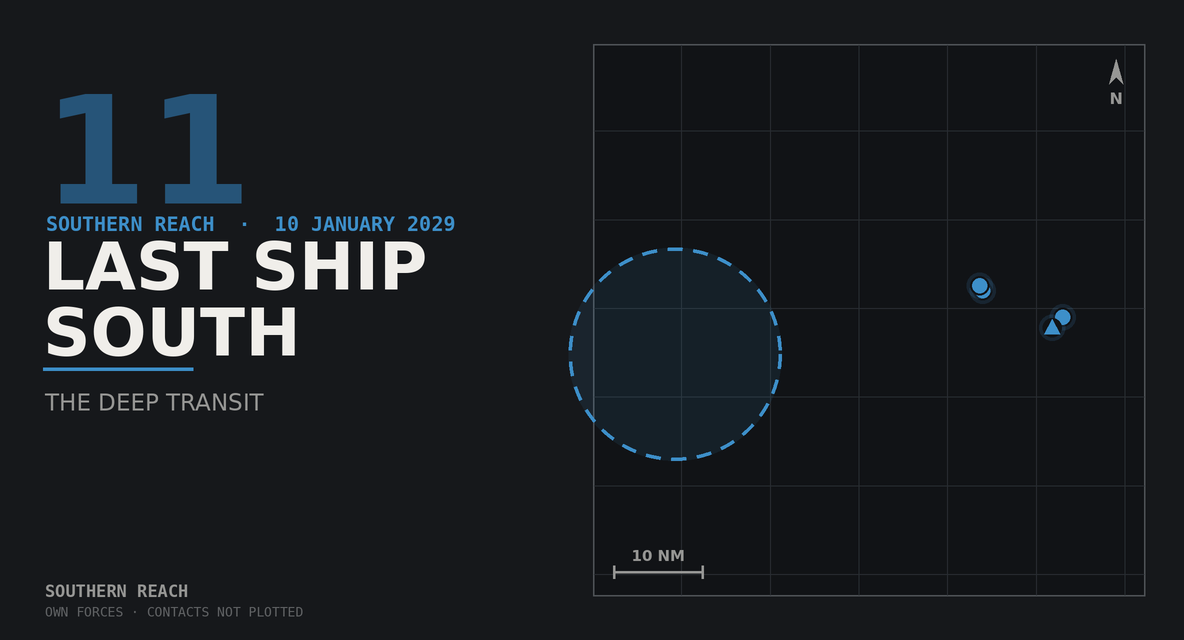
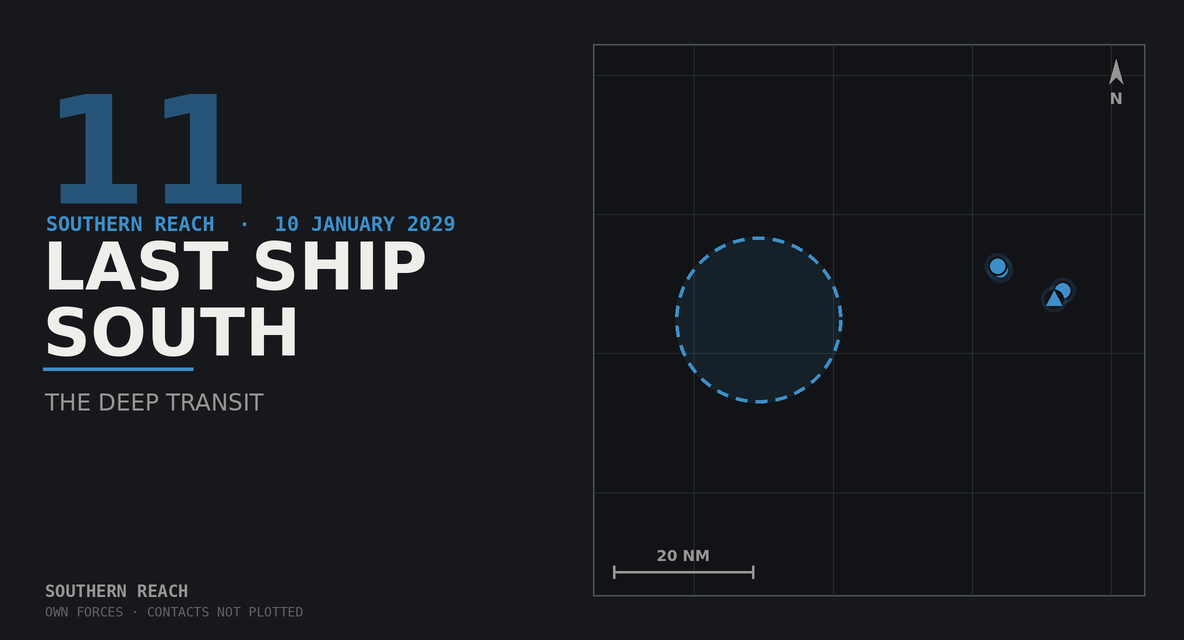
Campaigns: a mission card holds its whole ring and a clear title
Three faults in the shared art, found by looking at every card and page of
the Red Line campaign and fixed in the renderer rather than on its art.

A mission card's chart was framed on the own-force marks and the centre of
the objective ring, never its radius, so a wide ring ran off the chart and
over the page around it. Nine shipped cards did it: Southern Watch 04, O4
and C2; Southern Reach SR10, SR11, TS01, TS04, TS06 and TS11.
plot_extent() now frames the square on the ring as well when the ring
would leave it; a card whose ring already fits is framed exactly as
before.

The card title was set at 132 px whatever its letters, so an
eleven-character line of wide capitals reached the chart: BROKEN WAKE and
HOME WATERS touched its frame, and Red Line's CONVERGENCE crossed it.
title_size() steps the size down until the widest line is 40 px clear. A
title that fits keeps 132 px.

The campaign backdrop padded its frame by 2.2 degrees, which is a margin
on a theatre of a dozen degrees and none on one of fifty. backdrop_frame()
keeps the campaign marks 100 px below the top and 150 px above the bottom,
where the title is, and only when they would sit nearer; the optional
beats may still sit nearer. Meridians east of 180 are labelled west, and a
parallel's label that would print over the meridians' row is left off.

Regenerated: the nine cards above, in the campaign pack and the
consolidated dist. Every other Southern Watch and Southern Reach file,
[…]

diff --git a/integration/campaign/make_art.py b/integration/campaign/make_art.py
@@ -51,6 +51,46 @@ def sections(path):
             k, _, v = s.partition("="); out[cur][k.strip()] = v.strip()
     return out
 
+def plot_extent(afloat, goal):
+    """The card's chart as a square in the mission's NM frame: (x0, z1, span),
+    its west edge, its north edge and its side.
+
+    Framed on the own-force marks and the objective's centre, with 42% to
+    spare. That was the whole rule, and it let a wide objective ring run off
+    the chart, past the frame's edge and over the page around it, because the
+    centre was framed and the radius never was. Nine shipped cards did it.
+    When the ring would leave the square, the square is framed on the ring as
+    well; a card whose ring already fits is framed exactly as before.
+    """
+    pts = [(x, z) for x, z, _ in afloat] or [(0, 0)]
+    if goal: pts.append((goal[0], goal[1]))
+
+    def frame(pts):
+        xs, zs = [p[0] for p in pts], [p[1] for p in pts]
+        span = max(max(xs)-min(xs), max(zs)-min(zs), 20.0) * 1.42
+        return (min(xs)+max(xs))/2, (min(zs)+max(zs))/2, span
+
+    cx, cz, span = frame(pts)
+    if goal:
+        gx, gz, r = goal
+        if max(abs(gx - cx), abs(gz - cz)) + r > span / 2:
+            cx, cz, span = frame(pts + [(gx - r, gz - r), (gx + r, gz + r)])
+    return cx - span/2, cz + span/2, span
+
+def title_size(lines, room, measure, size=132, floor=96):
+    """The card title's size in px: 132, or as far below it (6 px a step,
+    never under `floor`) as the widest line needs to fit `room`.
+
+    The title is wrapped at eleven characters and set at 132 px whatever the
+    letters were, so an eleven-letter line of wide capitals ran into the
+    chart's frame - BROKEN WAKE and HOME WATERS touched it, CONVERGENCE
+    crossed it. `measure(line, size)` is the line's width at that size. A
+    title that fits keeps 132, so its card is drawn as before.
+    """
+    while size > floor and max(measure(l, size) for l in lines) > room:
+        size -= 6
+    return size
+
 def card(ini, out_png, num, title, date, place, standfirst, label="SOUTHERN WATCH"):
     S = sections(ini)
     afloat, goal = [], None
@@ -79,12 +119,7 @@ def card(ini, out_png, num, title, date, place, standfirst, label="SOUTHERN WATC
     ox, oy = CW - PW - 80, (CH - PH) // 2
     d.rectangle([ox-2, oy-2, ox+PW+2, oy+PH+2], fill=PANEL, outline=FRAME, width=3)
 
-    pts = [(x, z) for x, z, _ in afloat] or [(0, 0)]
-    if goal: pts.append((goal[0], goal[1]))
-    xs, zs = [p[0] for p in pts], [p[1] for p in pts]
-    span = max(max(xs)-min(xs), max(zs)-min(zs), 20.0) * 1.42
-    cx, cz = (min(xs)+max(xs))/2, (min(zs)+max(zs))/2
-    x0, z1 = cx - span/2, cz + span/2
+    x0, z1, span = plot_extent(afloat, goal)
     def to_px(x, z): return (ox + (x-x0)/span*PW, oy + (z1-z)/span*PH)
 
     step = next(s for s in (2, 5, 10, 20, 25, 50, 100) if span/s <= 7)
@@ -126,9 +161,12 @@ def card(ini, out_png, num, title, date, place, standfirst, label="SOUTHERN WATC
     d.text((L, 128), num, font=font(300, True), fill=BLUE_DIM)
     d.text((L+6, 424), date.upper(), font=font(40, True, mono=True), fill=BLUE)
     lines = textwrap.wrap(title.upper(), 11)
+    # The title stays 40 px clear of the chart's frame.
+    size = title_size(lines, ox - 40 - L,
+                      lambda line, px: d.textlength(line, font=font(px, True)))
     y = 456
     for line in lines:
-        d.text((L, y), line, font=font(132, True), fill=INK); y += 132
+        d.text((L, y), line, font=font(size, True), fill=INK); y += size
     y += 18
     d.line([(L, y), (L+300, y)], fill=BLUE, width=7); y += 40
     d.text((L+4, y), place.upper(), font=font(46), fill=INK_MUTE)
@@ -411,11 +449,9 @@ def _ll(path):
 def _hemi(v, pair):
     return f"{abs(v):.0f}{pair[0] if v >= 0 else pair[1]}"
 
-def backdrop(out_png, marks, title, subtitle):
-    """marks: [(number, lat, lon, is_core)] in campaign order."""
-    img = Image.new("RGB", (W, H), DEEP)
-    d = ImageDraw.Draw(img, "RGBA")
-
+def backdrop_frame(marks):
+    """The backdrop's chart as (south, north, west, east) in degrees, for
+    marks [(number, lat, lon, is_core)]."""
     lats = [m[1] for m in marks] or [-10.0]
     lons = [m[2] for m in marks] or [131.0]
     # Pad to the frame's aspect so the theatre is centred rather than stretched.
@@ -430,6 +466,34 @@ def backdrop(out_png, marks, title, subtitle):
         need = (lo1 - lo0) * H / W
         mid = (la0 + la1) / 2
         la0, la1 = mid - need / 2, mid + need / 2
+    # The pad is in degrees, which is a margin on a theatre of a dozen
+    # degrees and none on one of fifty: Red Line runs from the equator to 47
+    # South, and its first and last marks sat on the frame's edge with the
+    # track running through the title. Keep the northernmost campaign mark
+    # 100 px below the top and the southernmost 150 px clear of the bottom,
+    # where the title is. The optional beats are small and may sit nearer;
+    # a chart whose campaign marks already clear both keeps its frame.
+    core_lats = [m[1] for m in marks if m[3]] or lats
+    ppd = H / (la1 - la0)
+    if (la1 - max(core_lats)) * ppd < 100 or (min(core_lats) - la0) * ppd < 150:
+        ppd = (H - 250) / max(max(lats) - min(lats), 1e-6)
+        s_, n_ = min(lats) - 150 / ppd, max(lats) + 100 / ppd
+        if (n_ - s_) * W / H >= lo1 - lo0:      # the height governs: widen
+            la0, la1 = s_, n_
+            need, mid = (la1 - la0) * W / H, (lo0 + lo1) / 2
+            lo0, lo1 = mid - need / 2, mid + need / 2
+        else:                                   # the width does: grow the margins
+            extra = (lo1 - lo0) * H / W - (n_ - s_)
+            la0, la1 = s_ - extra * 0.6, n_ + extra * 0.4
+    return la0, la1, lo0, lo1
+
+
+def backdrop(out_png, marks, title, subtitle):
+    """marks: [(number, lat, lon, is_core)] in campaign order."""
+    img = Image.new("RGB", (W, H), DEEP)
+    d = ImageDraw.Draw(img, "RGBA")
+    la0, la1, lo0, lo1 = backdrop_frame(marks)
+
     def to_px(lat, lon):
         return ((lon - lo0) / (lo1 - lo0) * W, (la1 - lat) / (la1 - la0) * H)
 
@@ -439,14 +503,19 @@ def backdrop(out_png, marks, title, subtitle):
             int(a + (b - a) * t) for a, b in zip(SEA, DEEP)))
 
     lo = math.ceil(lo0)
+    lon_labels = []                     # x of each meridian label on the bottom row
     while lo <= lo1:                    # meridians, every degree
         px, _ = to_px(0, lo)
         heavy = lo % 5 == 0
         d.line([(px, 0), (px, H)], fill=LINE_H if heavy else LINE,
                width=2 if heavy else 1)
         if heavy:
+            lon_labels.append(px + 10)
+            # East of the date line the chart is still counting east: 185E
+            # is 175W, and a chart that spans both theatres reaches it.
+            east = lo if lo <= 180 else lo - 360
             d.text((px + 10, H - 38),
-                   f"{abs(lo):.0f}°{'E' if lo >= 0 else 'W'}",
+                   f"{abs(east):.0f}°{'E' if east >= 0 else 'W'}",
                    font=mono(22), fill=(58, 72, 86))
         lo += 1
     la = math.ceil(la0)
@@ -455,7 +524,10 @@ def backdrop(out_png, marks, title, subtitle):
         heavy = la % 5 == 0
         d.line([(0, py), (W, py)], fill=LINE_H if heavy else LINE,
                width=2 if heavy else 1)
-        if heavy:
+        # A parallel's label that would print over a meridian's on the
+        # bottom row is left off; the meridian's is the one the row is for.
+        crowded = py - 30 > H - 60 and any(x < 14 + 80 for x in lon_labels)
+        if heavy and not crowded:
             # Hemisphere from the sign, not from the theatre: padding the
             # frame out to 16:9 pushes the top edge over the equator, and a
             # parallel labelled 0S would be the one wrong thing on the chart.

diff --git a/integration/campaign/test_build_pack.py b/integration/campaign/test_build_pack.py
@@ -538,6 +538,110 @@ class StoryArt(unittest.TestCase):
         self.assertEqual({bp.event_tile(e) for e in (SIGNAL, LOG, INTSUM)}, {"message"})
 
 
+@unittest.skipIf(make_art is None, "Pillow is not installed")
+class CardFrame(unittest.TestCase):
+    """The mission card's chart holds the whole objective ring, not only its
+    centre, and the card's title stays off the chart."""
+
+    # The ceasefire-morning card: the group ahead, the box 21 NM up its
+    # course, 12 NM across - wider than the margin the marks leave.
+    MARKS = [(0.0, 9.0, "ship"), (-12.0, 6.0, "ship"), (-18.0, 12.0, "ship"),
+             (-1.2, 7.8, "air")]
+
+    @staticmethod
+    def square(afloat, goal):
+        x0, z1, span = make_art.plot_extent(afloat, goal)
+        return x0, x0 + span, z1 - span, z1
+
+    def assertInside(self, goal, square):
+        w, e, s, n = square
+        gx, gz, r = goal
+        self.assertTrue(w <= gx - r and gx + r <= e and s <= gz - r and gz + r <= n,
+                        f"ring {goal} leaves the chart {square}")
+
+    def test_a_wide_ring_is_framed_whole(self):
+        goal = (-30.12, 16.74, 12.0)
+        self.assertInside(goal, self.square(self.MARKS, goal))
+
+    def test_a_ring_that_fits_is_framed_as_before(self):
+        # The old rule: the marks and the ring's centre, with 42% to spare.
+        goal = (-6.0, 8.0, 3.0)
+        xs = [x for x, _z, _k in self.MARKS] + [goal[0]]
+        zs = [z for _x, z, _k in self.MARKS] + [goal[1]]
+        span = max(max(xs) - min(xs), max(zs) - min(zs), 20.0) * 1.42
+        x0 = (min(xs) + max(xs)) / 2 - span / 2
+        z1 = (min(zs) + max(zs)) / 2 + span / 2
+        self.assertEqual(make_art.plot_extent(self.MARKS, goal), (x0, z1, span))
+        self.assertInside(goal, self.square(self.MARKS, goal))
+
+    def test_no_objective_frames_the_marks(self):
+        x0, z1, span = make_art.plot_extent(self.MARKS, None)
+        self.assertAlmostEqual(span, 20.0 * 1.42)
+
+    @staticmethod
+    def measure(line, px):
+        from PIL import Image, ImageDraw
+        d = ImageDraw.Draw(Image.new("RGB", (8, 8)))
+        return d.textlength(line, font=make_art.font(px, True))
+
+    # The card's own geometry: the chart's frame starts at 1188 px on the
+    # 2x canvas and the title at 86, 40 px clear of it.
+    ROOM = make_art.SHEET_W * 2 - 1100 - 80 - 40 - 86 if make_art else 0
+
+    def test_a_wide_title_is_set_smaller_to_clear_the_chart(self):
+        for title in (["UNDER THE", "CONVERGENCE"], ["BROKEN WAKE"]):
+            self.assertGreater(max(self.measure(l, 132) for l in title), self.ROOM)
+            size = make_art.title_size(title, self.ROOM, self.measure)
+            self.assertLess(size, 132)
+            self.assertLessEqual(max(self.measure(l, size) for l in title), self.ROOM)
+
+    def test_a_title_that_fits_keeps_its_size(self):
+        self.assertEqual(make_art.title_size(["THE QUIET", "PASSENGER"], self.ROOM,
+                                             self.measure), 132)
+
+
+@unittest.skipIf(make_art is None, "Pillow is not installed")
+class BackdropFrame(unittest.TestCase):
+    """The campaign backdrop keeps its campaign marks off the chart's top edge
+    and clear of the title at the bottom, however tall the theatre."""
+
+    @staticmethod
+    def old_rule(marks):
+        # 2.2 degrees round the marks, then padded out to the frame's aspect.
+        W, H = make_art.W, make_art.H
+        lats, lons = [m[1] for m in marks], [m[2] for m in marks]
+        la0, la1 = min(lats) - 2.2, max(lats) + 2.2
+        lo0, lo1 = min(lons) - 2.2, max(lons) + 2.2
+        if (lo1 - lo0) / (la1 - la0) < W / H:
+            need, mid = (la1 - la0) * W / H, (lo0 + lo1) / 2
+            return la0, la1, mid - need / 2, mid + need / 2
+        need, mid = (lo1 - lo0) * H / W, (la0 + la1) / 2
+        return mid - need / 2, mid + need / 2, lo0, lo1
+
+    def test_a_tall_theatre_keeps_its_marks_off_the_edges(self):
+        # The equator to 47 South: 2.2 degrees left the first and last marks
+        # on the frame's edge.
+        marks = [("RL01", 1.3, 126.7, True), ("RL02", -0.5, 135.8, True),
+                 ("RL03", -5.6, 131.5, True), ("RL04", -4.6, 128.9, True),
+                 ("RL05", -47.5, 140.5, True), ("RL06", -46.3, 166.0, True)]
+        H, W = make_art.H, make_art.W
+        s, n, w, e = self.old_rule(marks)
+        self.assertLess((n - 1.3) / (n - s) * H, 100)
+        s, n, w, e = make_art.backdrop_frame(marks)
+        self.assertGreaterEqual((n - 1.3) / (n - s) * H, 100 - 1e-6)
+        self.assertGreaterEqual((-47.5 - s) / (n - s) * H, 150 - 1e-6)
+        self.assertTrue(all(w < m[2] < e for m in marks))
+        self.assertAlmostEqual((e - w) / (n - s), W / H)
+
+    def test_a_compact_theatre_is_framed_as_before(self):
+        # An optional beat near the bottom does not move the frame; only the
+        # campaign marks are held to the margins.
+        marks = [("01", -10.5, 131.2, True), ("02", -10.0, 145.0, True),
+                 ("08", -2.0, 135.0, True), ("03", -11.0, 126.0, True),
+                 ("D1", -15.9, 148.8, False)]
+        self.assertEqual(make_art.backdrop_frame(marks), self.old_rule(marks))
+
+
 class RosterAndSeahawk(unittest.TestCase):
     """Generated text that assumed Southern Watch: the roster file's header
     and footer, and a Seahawk's squadron chosen by side instead of flag."""
